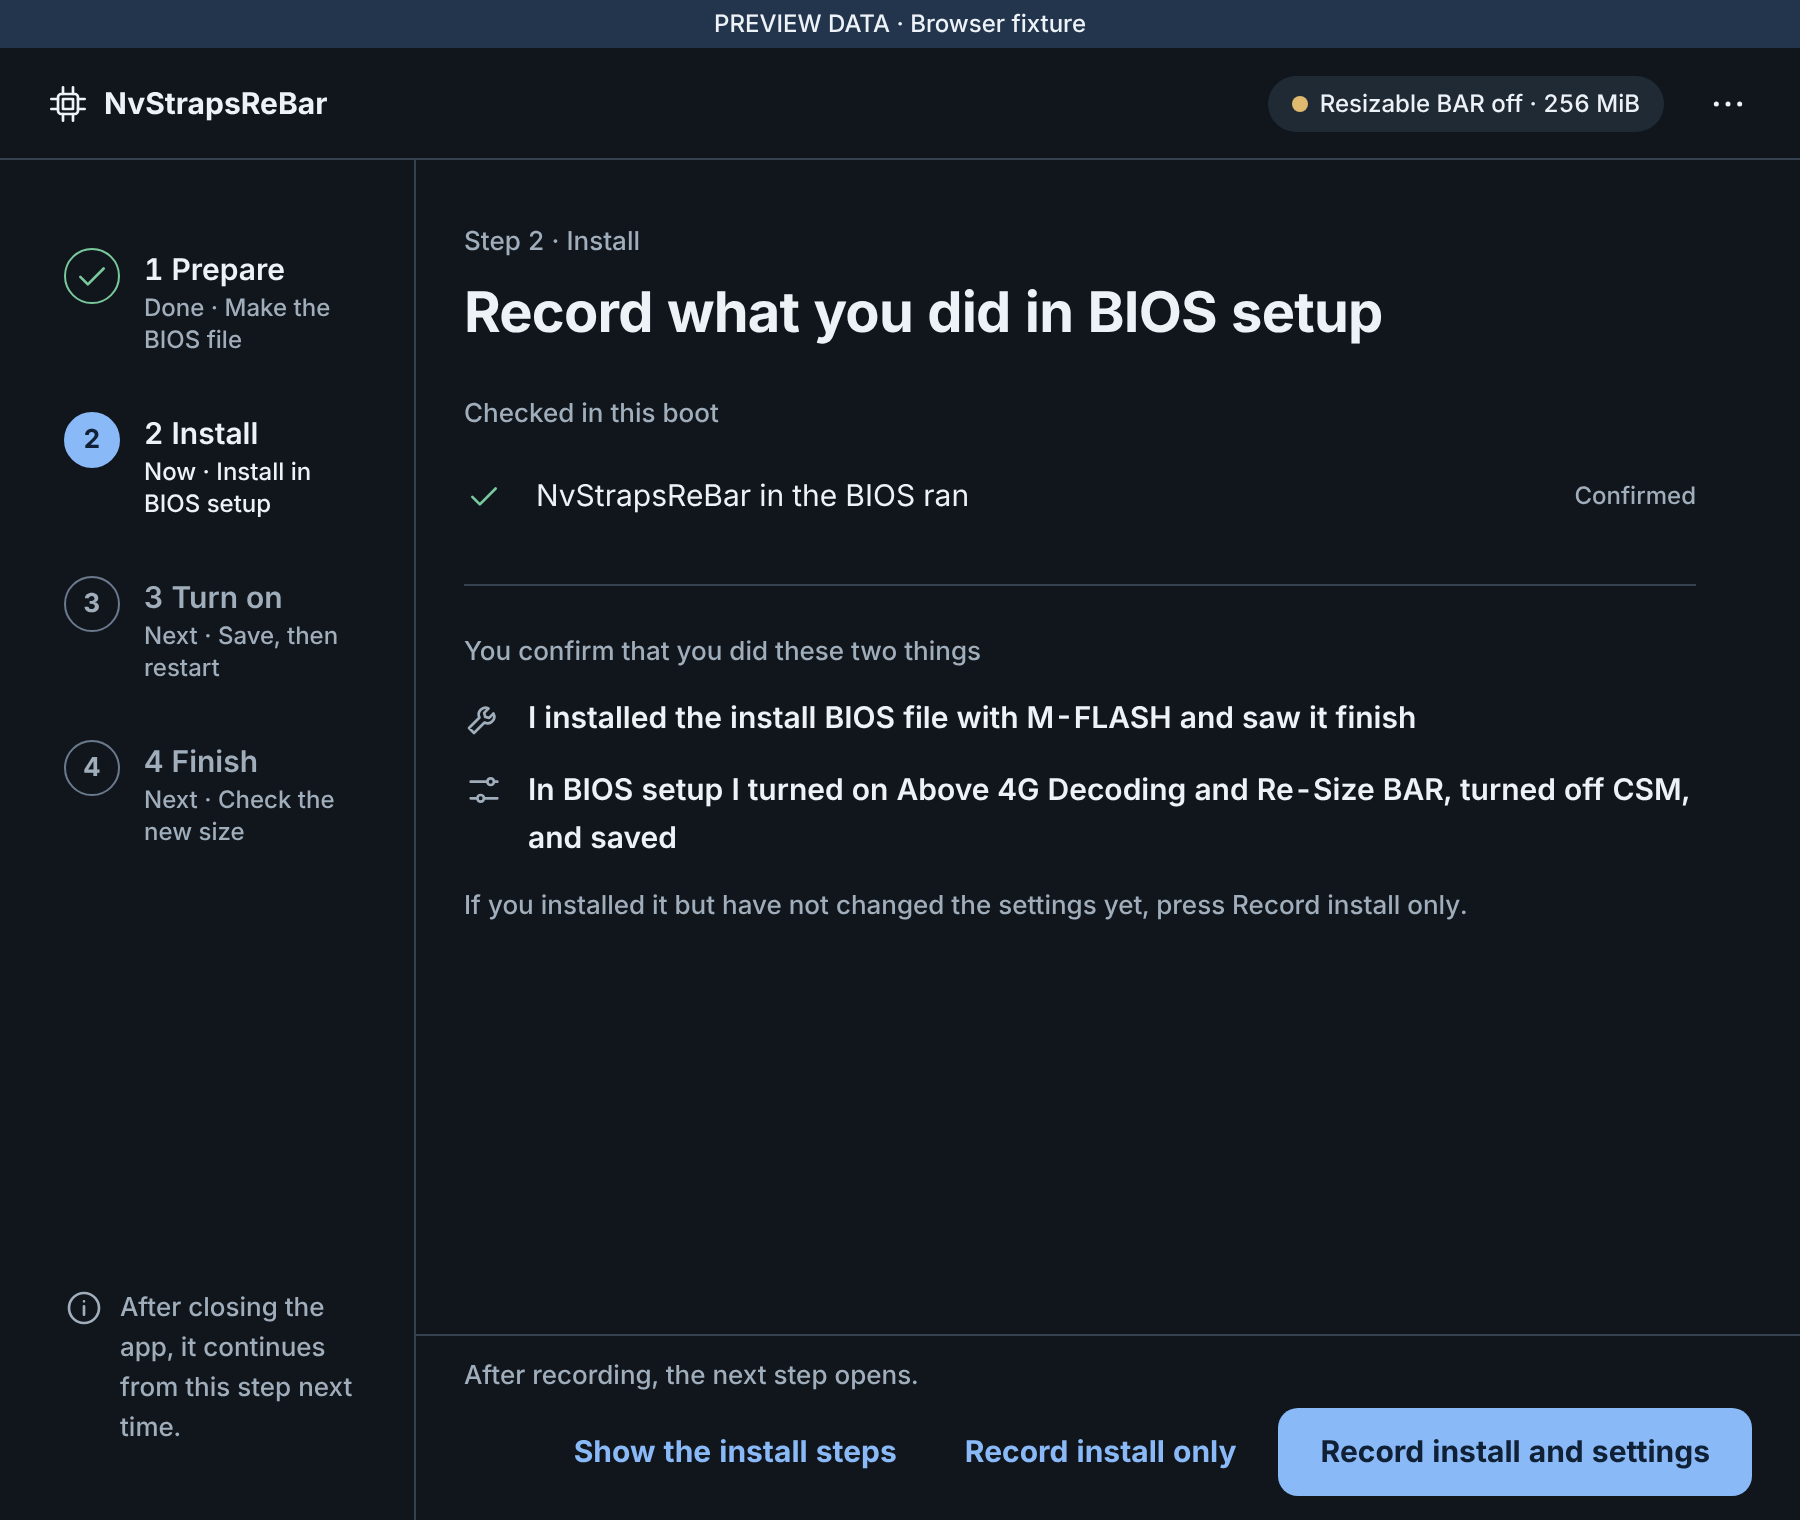
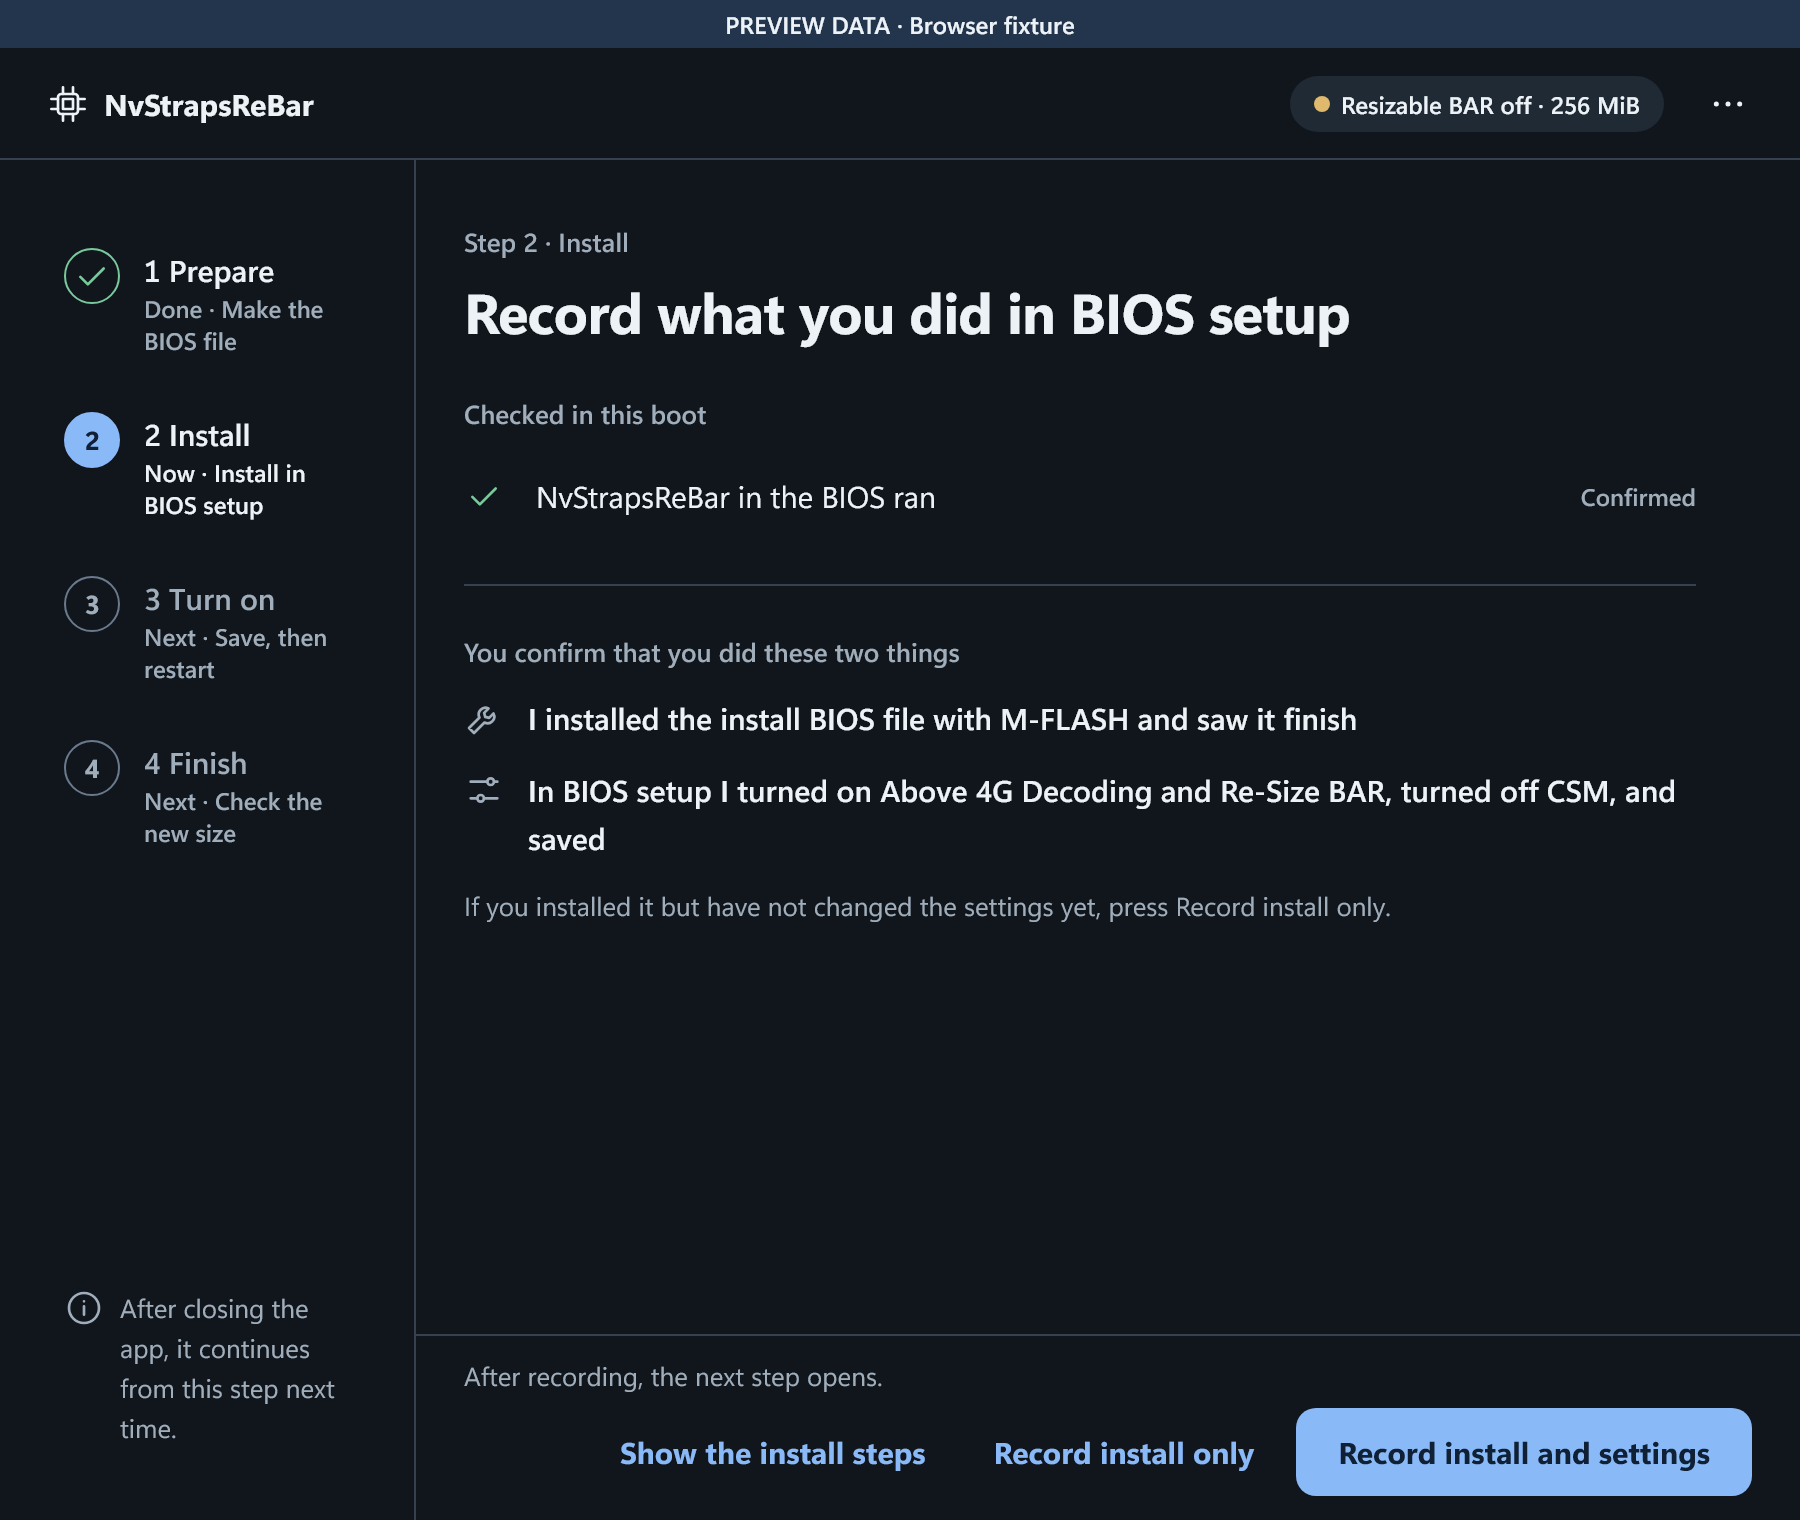
docs: capture the gallery again from v1.1.7
The captures were from v1.1.2. Since then the empty file box became a
button that also takes a dropped file, and the install guide gained the
step about restarts.

Two captures are new: the first screen in English and the home screen in
Korean. The README files show these two screens in their own language, and
the series had each of them only in the other one.

Captured on Windows this time, so English text is in Segoe UI as in the
Windows app.

diff --git a/docs/frontend-gallery/README.md b/docs/frontend-gallery/README.md
@@ -7,8 +7,8 @@ home, the four install steps, and the pages used after installation.
 > These captures come from the production build running the repository's browser-preview
 > fixtures, so every screen carries the "PREVIEW DATA" bar. They do not show native WebView2
 > behaviour, native dialogs, firmware reads or writes, flashing, restarts, or results from NVIDIA
-> hardware. They were taken in headless Chromium on Linux: Korean text uses the bundled Pretendard
-> exactly as on Windows, while English text falls back to Pretendard where Windows shows Segoe UI.
+> hardware. They were taken in headless Chromium on Windows, so Korean text uses the bundled
+> Pretendard and English text Segoe UI, as in the Windows app.
 
 The 900 px captures show the smallest supported desktop window. Every image is captured at device
 scale 2.
@@ -47,6 +47,7 @@ experimental route that leaves the BIOS alone.
 ### 3. Choose the motherboard BIOS file · English, 1180 × 760
 
 Step 1 of four. The screen shows the detected board and which file in the vendor download to choose.
+The empty box opens the file chooser when pressed and takes a file dropped on it.
 
 ![English step 1 asking for the motherboard BIOS file](03-install-choose-file-en-1180x760.png)
 
@@ -117,6 +118,19 @@ setting.
 
 ![한국어 'BIOS 수정 없이' 화면](12-external-ko-1180x760.png)
 
+## The home screens in the other language
+
+The repository's two README files show the first screen and the home screen in their own language.
+These are the two that the series above has only in the other one.
+
+### 13. The first screen · English, 1180 × 760
+
+![English first screen: 256 MiB now, 8 GiB when on, with the steps and what you need](13-home-start-en-1180x760.png)
+
+### 14. Resizable BAR 켜짐 · 한국어, 1180 × 760
+
+![한국어 홈 화면: Resizable BAR가 켜져 있고 GPU가 8 GiB인 화면](14-home-on-ko-1180x760.png)
+
 ## Earlier captures
 
 Captures of earlier interfaces were removed when this gallery was replaced. They remain in the
@@ -124,5 +138,5 @@ repository history: [the gallery as of v1.1.2](https://github.com/115dkk/NvStrap
 
 ---
 
-Captured from v1.1.2 in headless Chromium 153.0.8010.12 on Linux, at device scale 2 with reduced
+Captured from v1.1.7 in headless Chromium 151.0.7922.34 on Windows, at device scale 2 with reduced
 motion.
